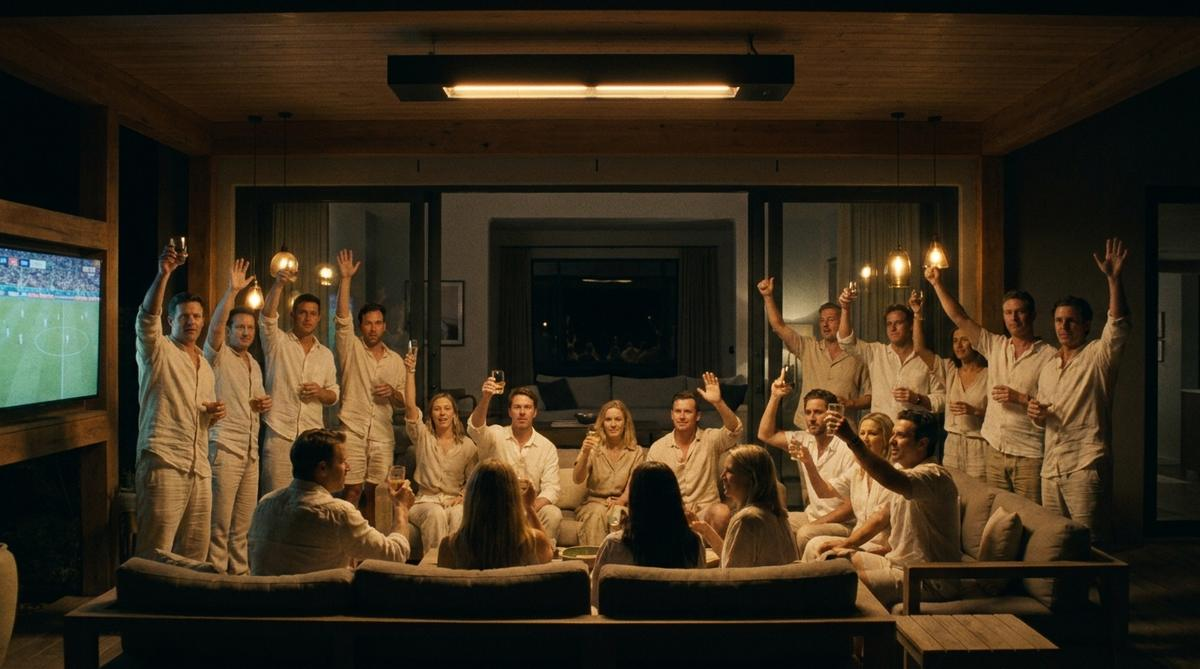
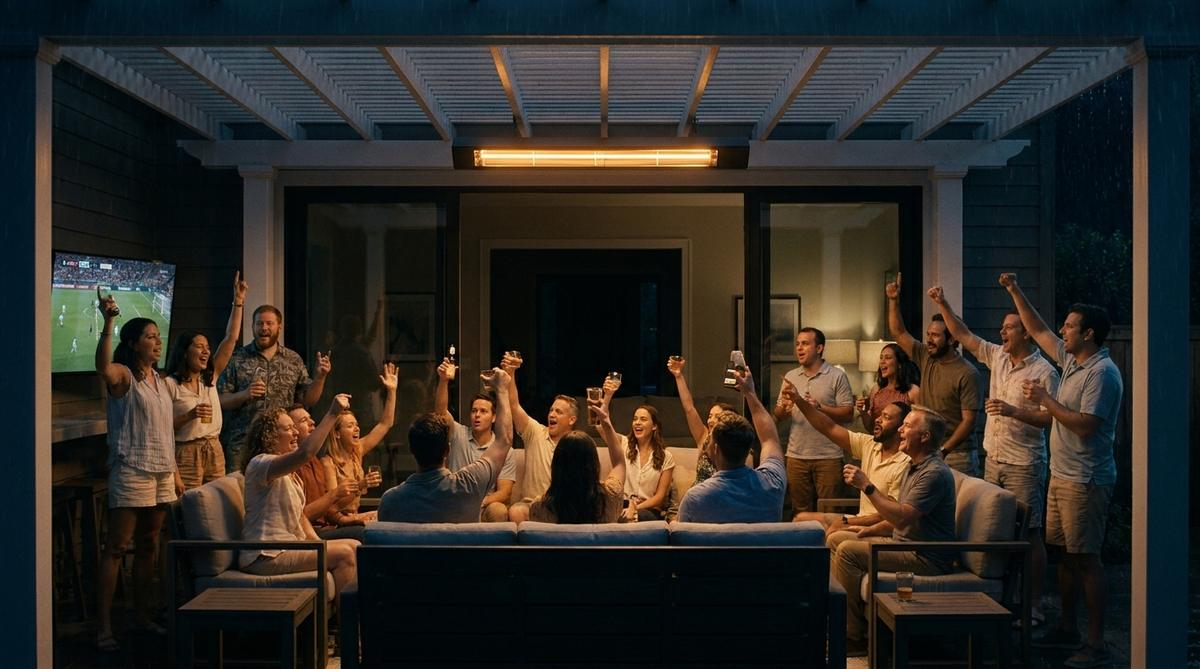
Regenerate shortlist turn frames as matched cuts
Each of the six turn frames is now derived image-to-image from its own
cold frame, so location, camera and architecture hold across the edit.
Earlier attempt stalled on full-size PNG payloads; the 1200px JPEGs
succeed. Big Game reshot after the first pass kept the crowd indoors
instead of moving them outside.

Claude-Session: https://claude.ai/code/session_01UrH28t2oy8N5SRSkmLjZFx

diff --git a/bromic/deck.html b/bromic/deck.html
@@ -476,9 +476,10 @@ footer{padding:44px 0 72px;color:var(--muted);font-size:14px}
     "same ad, different logo" wall — it's the most persuasive slide in the pitch and it needs their real ads.
     Then: confirm US and AUS media weight, dealer count and CRM readiness, the residential/commercial revenue
     split, and baseline branded search before anything runs.</p>
-    <p class="muted" style="font-size:13px;margin-top:14px">Mood boards are AI-generated tonal references for
-    direction only — lighting, staging, casting age and comic register. They are not storyboards, not final
-    frames, and depict no real product. Category and pricing context sourced from public retailer and trade
+    <p class="muted" style="font-size:13px;margin-top:14px">Mood boards are AI-generated references for
+    direction only — lighting, staging, casting age and comic register. The six shortlist pairs are generated
+    as matched cuts, each turn frame derived from its own cold frame so the location, camera and architecture
+    hold across the edit. They are not storyboards, not final frames, and depict no real product. Category and pricing context sourced from public retailer and trade
     listings.</p>
   </div>
 </footer>

diff --git a/bromic/build-matched-cuts.py b/bromic/build-matched-cuts.py
@@ -1,0 +1,50 @@
+import json,os,base64,urllib.request,urllib.error,threading,time
+K=open('.gkey').read().strip()
+JPG='jpg'; OUT='board'
+KEEP=("Keep the exact same location, same camera position, same lens, same framing, same architecture and "
+"same furniture as the reference image, matched precisely so the two shots cut together. Photorealistic "
+"cinematic film still, no text, no logos. Change only this: ")
+WARM=("the space is now warm — a long sleek matte-black linear radiant heater is mounted flush overhead "
+"glowing soft amber, and the whole space is lit in warm golden light. ")
+P=[("01a_mushroom_before","01b_mushroom_after",KEEP+WARM+"Remove the cheap mushroom patio heater completely. The terrace is now full: fourteen well-dressed adults in shirtsleeves and light knitwear eating and laughing at the long dining table and sprawled across the built-in sofa."),
+   ("02a_pizza_before","02b_pizza_after",KEEP+WARM+"The same man is now in shirtsleeves with no coat, sliding a pizza from the same oven onto a table surrounded by twelve friends in light clothing eating outdoors together, delighted."),
+   ("03a_snowbird_before","03b_snowbird_after",KEEP+WARM+"The suitcases and the SUV are gone. The same retired couple, now in light clothing with no coats, are setting a long outdoor table for friends at the same house. They never left."),
+   ("04a_biggame_before","04b_biggame_after",KEEP+WARM+"Reverse the situation: the covered outdoor lounge with the huge outdoor television is now packed with twenty-two adults in light clothing watching the game and cheering, while the interior living room behind is empty and dark."),
+   ("05a_coastal_before","05b_coastal_after",KEEP+WARM+"The same guests, now in light linen with no coats, sit calmly and comfortably at the same beautifully set outdoor table. Nobody is retreating indoors. The breeze still moves the plants but the people are unaffected."),
+   ("06a_spec_before","06b_spec_after",KEEP+"the same architect is now confident and mid-explanation, and the screen now shows a warm golden evening render of the terrace with sleek linear overhead heaters glowing amber and people dining outdoors in light clothing. The same client nods, convinced."),
+]
+lock=threading.Lock()
+def run(t):
+    src,dst,pr=t
+    sp=f"{JPG}/{src}.jpg"
+    if not os.path.exists(sp):
+        with lock: print("no src",src); return
+    b64=base64.b64encode(open(sp,'rb').read()).decode()
+    payload={"contents":[{"parts":[{"inlineData":{"mimeType":"image/jpeg","data":b64}},{"text":pr}]}],
+             "generationConfig":{"responseModalities":["IMAGE"],"imageConfig":{"aspectRatio":"16:9"}}}
+    for a in range(3):
+        try:
+            req=urllib.request.Request("https://generativelanguage.googleapis.com/v1beta/models/gemini-3-pro-image:generateContent",
+              data=json.dumps(payload).encode(),headers={"Content-Type":"application/json","X-goog-api-key":K})
+            d=json.load(urllib.request.urlopen(req,timeout=260))
+            c=d.get("candidates")
+            if not c:
+                with lock: print("blocked",dst,json.dumps(d)[:120]); return
+            for p in c[0]["content"]["parts"]:
+                if "inlineData" in p:
+                    open(f"{OUT}/{dst}.png","wb").write(base64.b64decode(p["inlineData"]["data"]))
+                    with lock: print("MATCHED",dst); return
+            with lock: print("noimg",dst)
+        except urllib.error.HTTPError as e:
+            with lock: print("retry",a,dst,e.code,e.read()[:80].decode().replace("\n"," "))
+            time.sleep(20*(a+1))
+        except Exception as e:
+            with lock: print("retry",a,dst,str(e)[:80]); time.sleep(20*(a+1))
+    with lock: print("FAIL",dst)
+sem=threading.Semaphore(2)
+def w(t):
+    with sem: run(t)
+ts=[threading.Thread(target=w,args=(t,)) for t in P]
+for t in ts: t.start()
+for t in ts: t.join()
+print("DONE")
